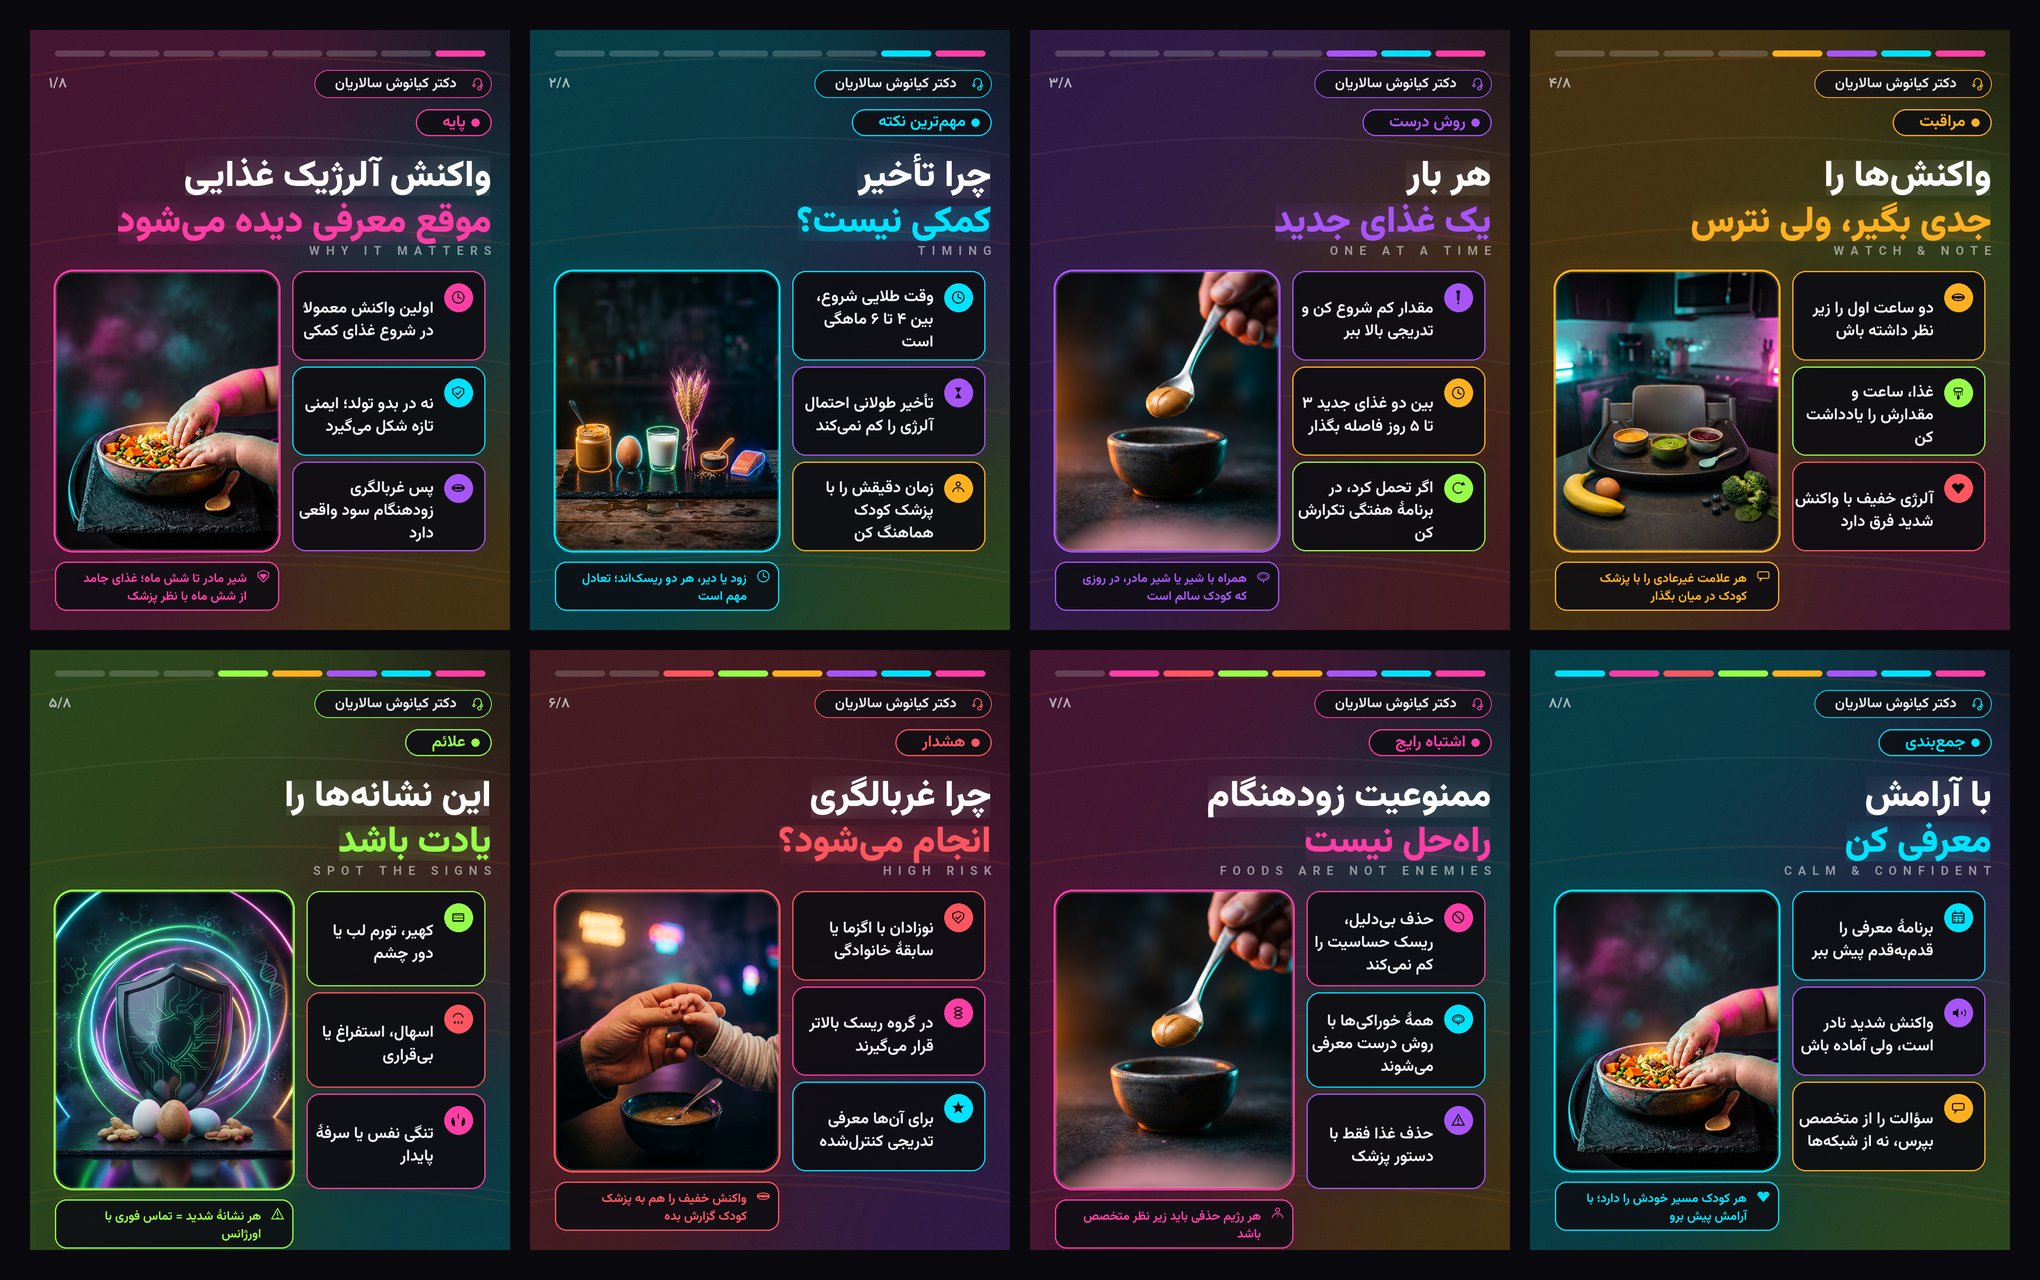
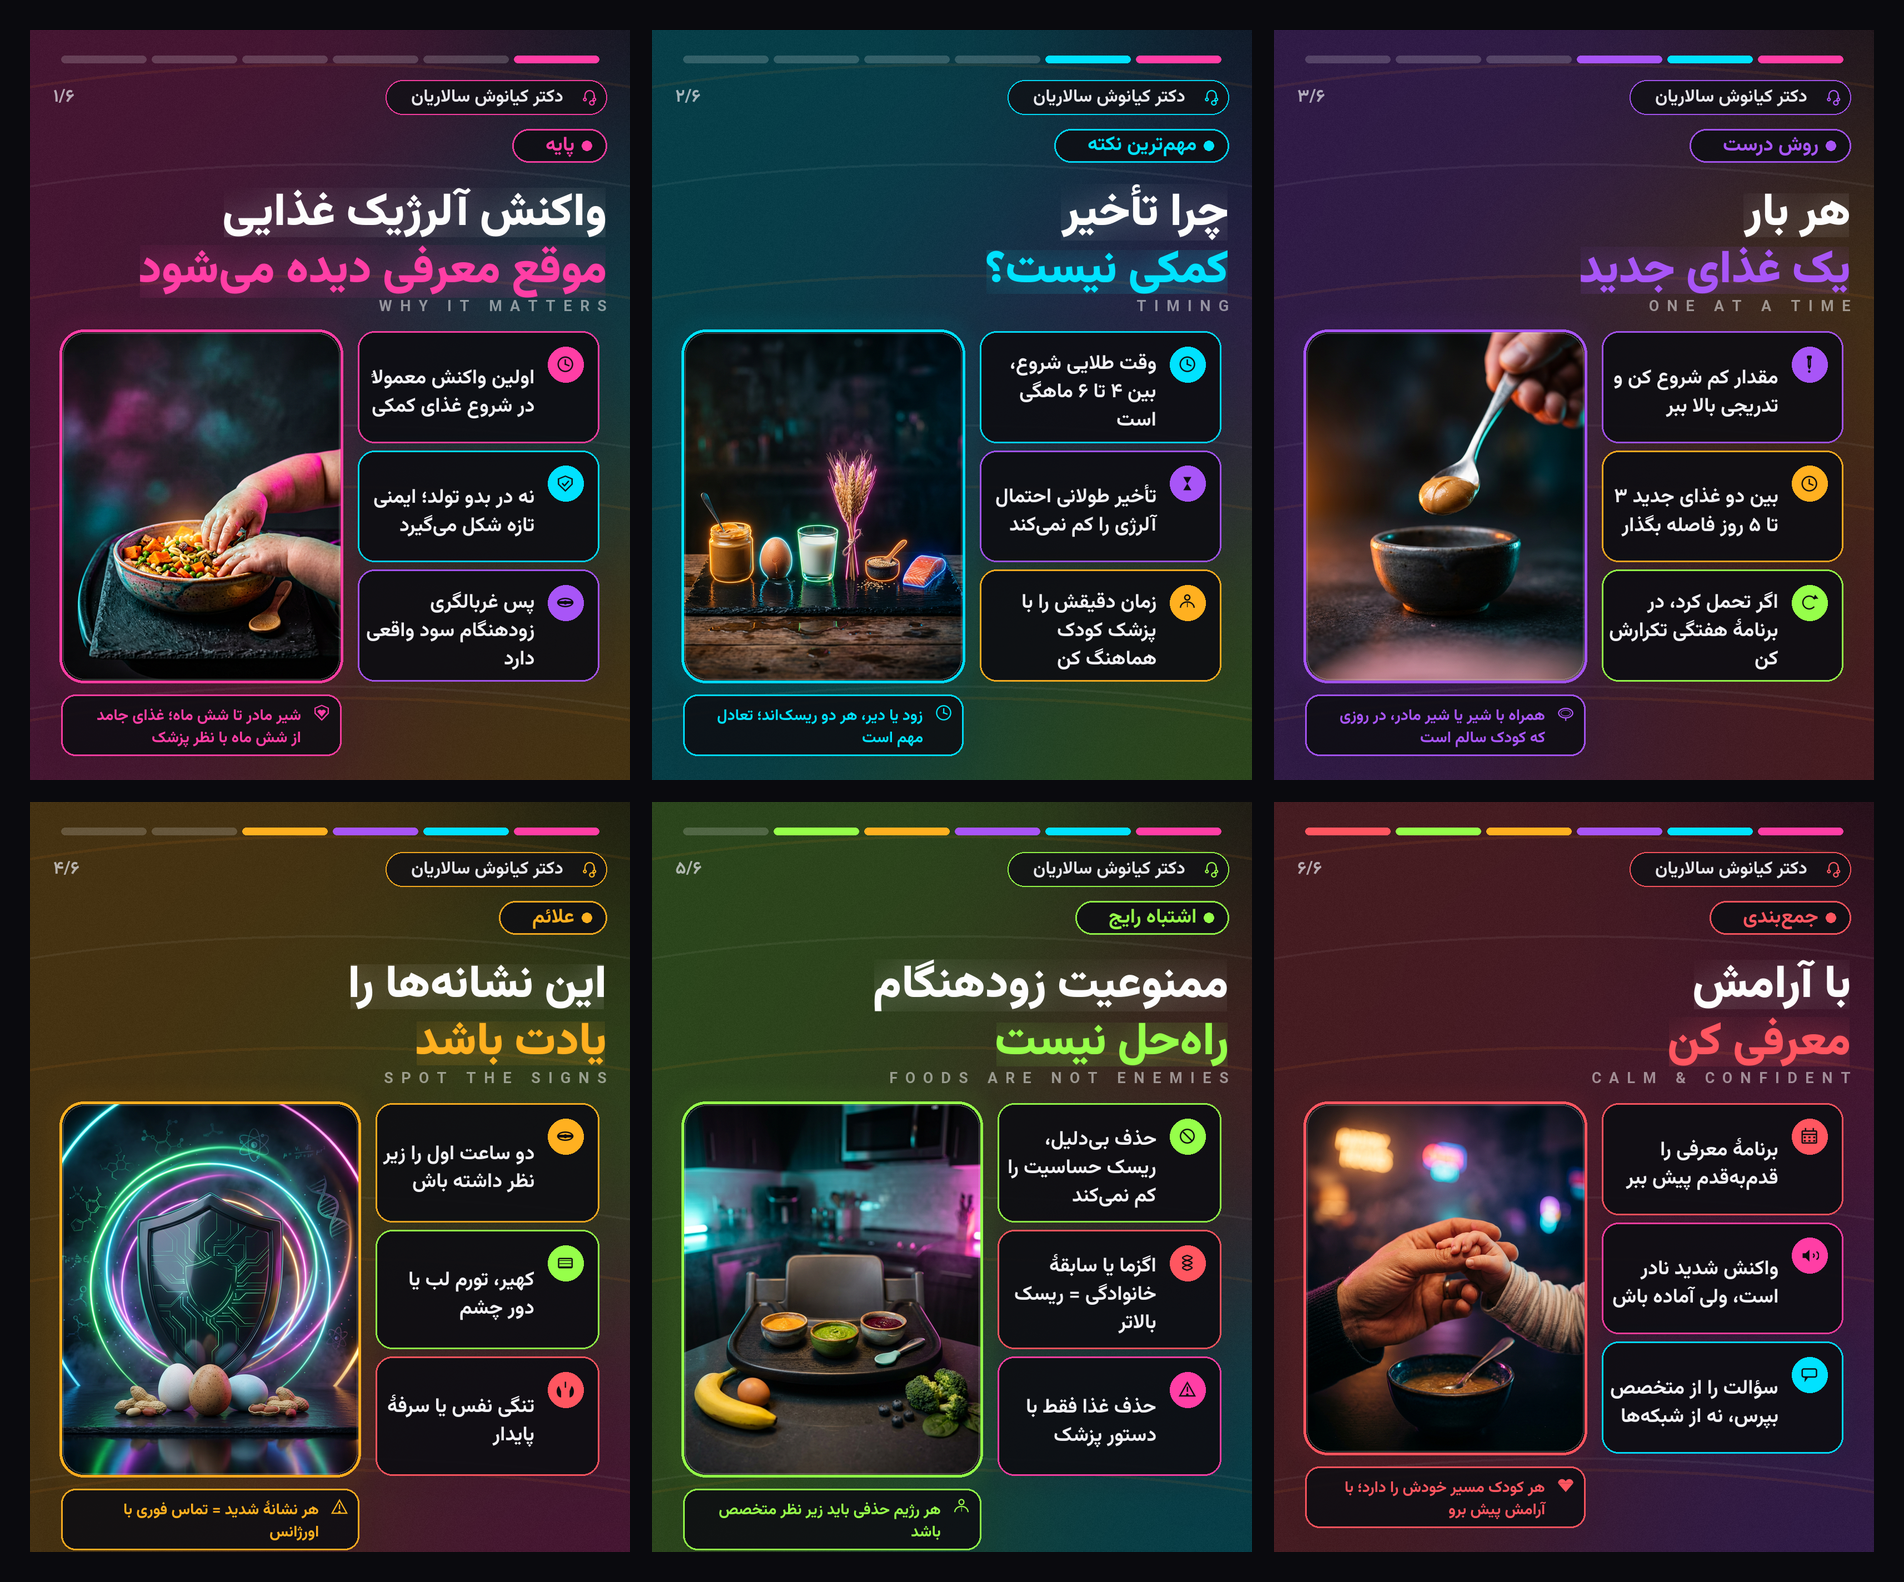
کاروسل آلرژی: کاهش به ۶ اسلاید + بهروزرسانی کپشن و ورق مرور

diff --git a/carousel_allergy/topic_allergy.py b/carousel_allergy/topic_allergy.py
@@ -1,5 +1,5 @@
 # -*- coding: utf-8 -*-
-"""کاروسل نئون مولتیکالر — آلرژی غذایی کودک / معرفی تدریجی غذا (۸ اسلاید ۴:۵)"""
+"""کاروسل نئون مولتیکالر — آلرژی غذایی کودک / معرفی تدریجی غذا (۶ اسلاید ۴:۵)"""
 import sys, os
 sys.path.insert(0, "/home/user/Kiankhosrobot/Kiankhosrobot/toolkit")
 from make_carousel import W, H, NEXT_PAL, build_carousel
@@ -33,41 +33,25 @@ cfg = {
                    ("repeat", "اگر تحمل کرد، در برنامهٔ هفتگی تکرارش کن")],
              note=("plate", "همراه با شیر یا شیر مادر، در روزی که کودک سالم است")),
 
-        dict(kicker="مراقبت", en="WATCH & NOTE",
-             headline=[("واکنشها را", "w"), ("جدی بگیر، ولی نترس", "a")],
-             img="ill4.png",
-             tips=[("eye", "دو ساعت اول را زیر نظر داشته باش"),
-                   ("brush", "غذا، ساعت و مقدارش را یادداشت کن"),
-                   ("heart", "آلرژی خفیف با واکنش شدید فرق دارد")],
-             note=("speak", "هر علامت غیرعادی را با پزشک کودک در میان بگذار")),
-
         dict(kicker="علائم", en="SPOT THE SIGNS",
              headline=[("این نشانهها را", "w"), ("یادت باشد", "a")],
              img="ill3.png",
-             tips=[("skin", "کهیر، تورم لب یا دور چشم"),
-                   ("sweat", "اسهال، استفراغ یا بیقراری"),
+             tips=[("eye", "دو ساعت اول را زیر نظر داشته باش"),
+                   ("skin", "کهیر، تورم لب یا دور چشم"),
                    ("lung", "تنگی نفس یا سرفهٔ پایدار")],
              note=("warn", "هر نشانهٔ شدید = تماس فوری با اورژانس")),
 
-        dict(kicker="هشدار", en="HIGH RISK",
-             headline=[("چرا غربالگری", "w"), ("انجام میشود؟", "a")],
-             img="ill5.png",
-             tips=[("shield", "نوزادان با اگزما یا سابقهٔ خانوادگی"),
-                   ("dna", "در گروه ریسک بالاتر قرار میگیرند"),
-                   ("star", "برای آنها معرفی تدریجی کنترلشده")],
-             note=("eye", "واکنش خفیف را هم به پزشک کودک گزارش بده")),
-
         dict(kicker="اشتباه رایج", en="FOODS ARE NOT ENEMIES",
              headline=[("ممنوعیت زودهنگام", "w"), ("راهحل نیست", "a")],
-             img="ill2.png",
+             img="ill4.png",
              tips=[("no", "حذف بیدلیل، ریسک حساسیت را کم نمیکند"),
-                   ("plate", "همهٔ خوراکیها با روش درست معرفی میشوند"),
+                   ("dna", "اگزما یا سابقهٔ خانوادگی = ریسک بالاتر"),
                    ("warn", "حذف غذا فقط با دستور پزشک")],
              note=("doctor", "هر رژیم حذفی باید زیر نظر متخصص باشد")),
 
         dict(kicker="جمعبندی", en="CALM & CONFIDENT",
              headline=[("با آرامش", "w"), ("معرفی کن", "a")],
-             img="ill0.png",
+             img="ill5.png",
              tips=[("calendar", "برنامهٔ معرفی را قدمبهقدم پیش ببر"),
                    ("sound", "واکنش شدید نادر است، ولی آماده باش"),
                    ("speak", "سؤالت را از متخصص بپرس، نه از شبکهها")],
